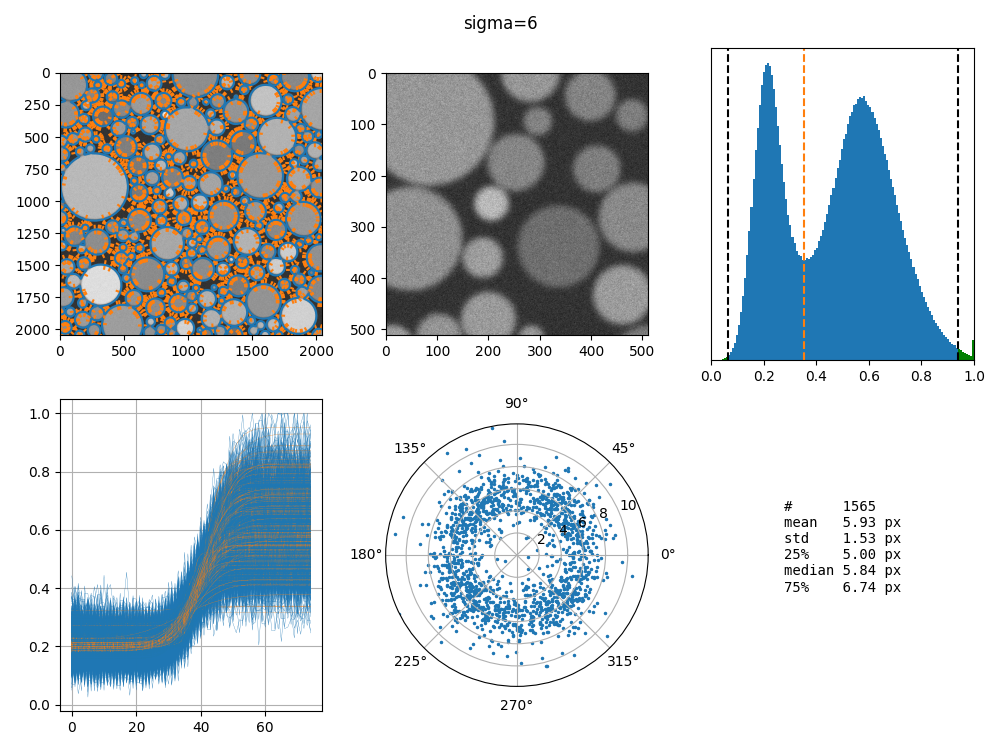
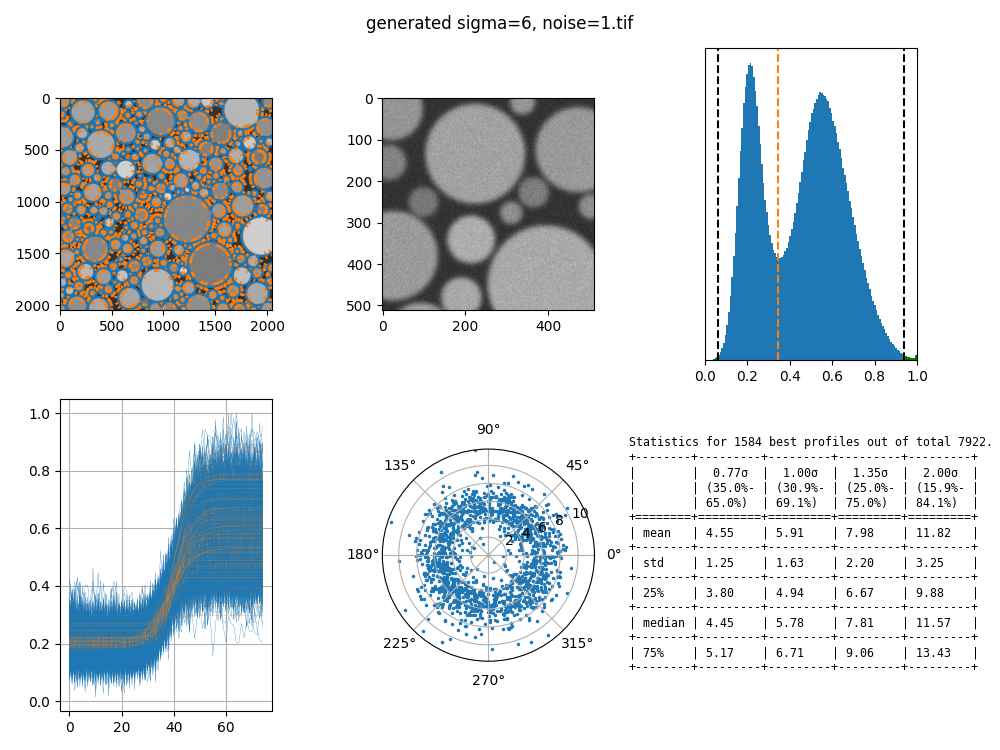
Reporting of scaled sigma statistics

diff --git a/resolution.py b/resolution.py
@@ -49,11 +49,14 @@ def resolution(data, label, options):
         print("image too small")
         return
 
-    if data.dtype != np.uint16:
-        print("not a 16-bit image")
+    if data.dtype == np.uint16:
+        data = data/65535
+    elif data.dtype == np.uint8:
+        data = data/255
+    else:
+        print("not 8-bit or 16-bit image")
         return
 
-    data = data/65535
 
     fig = plt.figure(figsize=(10, 7.5))
     ax_image = fig.add_subplot(231)
@@ -212,31 +215,41 @@ def resolution(data, label, options):
     ax_image.add_collection(c_profiles)
     ax_image.add_collection(c_contours)
 
+    n_total = len(s)
     t = t[idx]
     s = s[idx]
-
-    p25, p50, p75 = np.percentile(s, [25,50,75])
-    report = (
-        "#      {}\n"
-        "mean   {:.2f} px\n"
-        "std    {:.2f} px\n"
-        "25%    {:.2f} px\n"
-        "median {:.2f} px\n"
-        "75%    {:.2f} px\n"
-        ).format(
-            len(idx),
-            np.mean(s), 
-            np.std(s), 
-            p25,
-            p50, # np.median(s)
-            p75
-        )
-    print(report, end="")
+    n_included = len(s)
 
     ax_polar.plot(t, s, ".", zorder=0, ms=3)
     ax_polar.set_rlim(0, 2*np.mean(s))
+
+
+    stat_labels = ["mean", "std", "25%", "median", "75%"]
+    stats = np.array([ np.mean(s), np.std(s), *np.percentile(s, [25,50,75]) ])
+    factors = [0.77, 1, 1.35, 2]
+    factor_labels = [ "{:.2f}σ\n({:.1f}%-\n{:.1f}%)".format(x, 100*stepf(-x/2), 100*stepf(x/2)) for x in factors]
+
+    report = "Statistics for {} best profiles out of total {}.\n".format(n_included, n_total)
+
+    row = [""] + factor_labels
+    table = [row]
+    for s, sl in zip(stats, stat_labels):
+        row = [sl]
+        for x in factors:
+            row.append("{:.2f}".format(s*x))
+        table.append(row)
+
+    import texttable
+    t = texttable.Texttable(0)
+    #t.set_deco(0)
+    t.set_cols_dtype(["t"]*(len(factors)+1))
+    t.add_rows(table)
+
+    report += t.draw()
+    print(report)
+
     ax_text.axis("off")
-    ax_text.text(0.5, 0.5, report, font="monospace", ha="center", multialignment="left", va="center", transform=ax_text.transAxes)
+    ax_text.text(0.5, 0.5, report, font="monospace", ha="center", multialignment="left", va="center", transform=ax_text.transAxes, size='small')
 
     fig.tight_layout()
 
